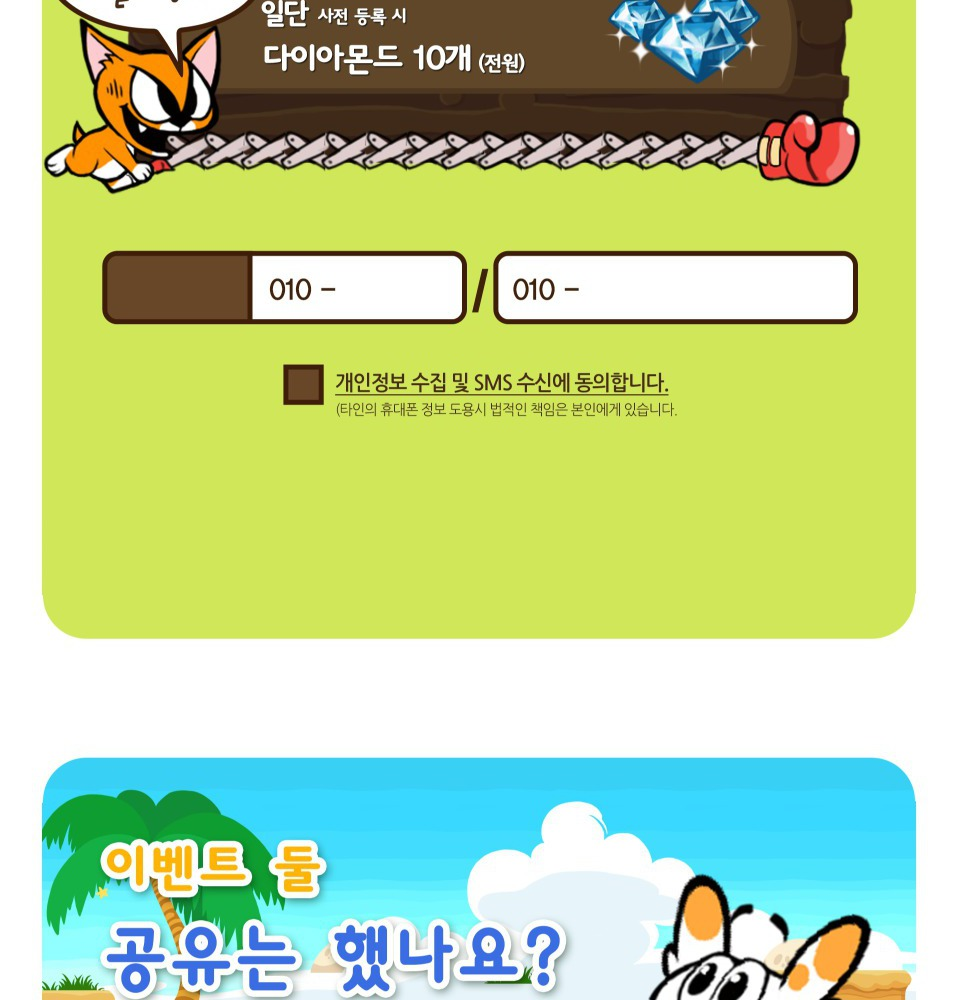
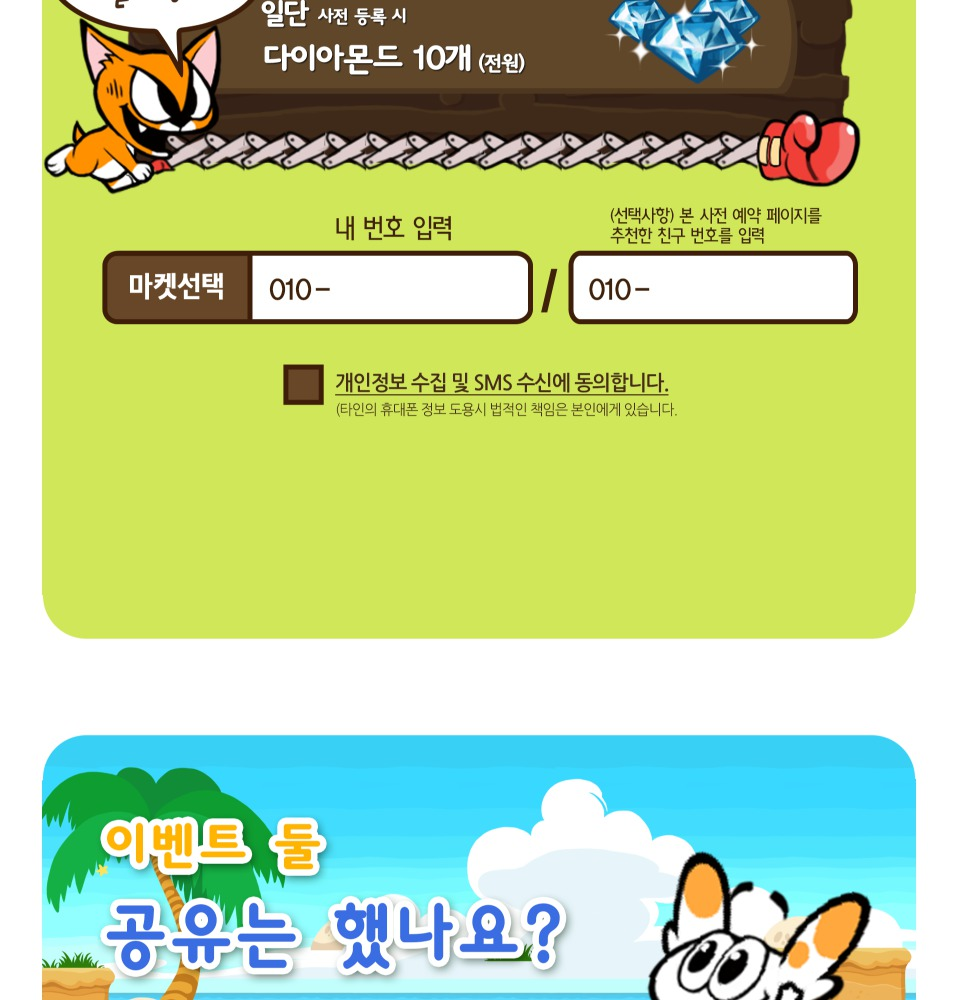
리소스 교체. css+투명 이미지 배경색 잘못 넣은거 수정

diff --git a/misasa/static/css/main.css b/misasa/static/css/main.css
@@ -120,6 +120,8 @@ textarea {
     *display: inline; /*IE 6/7*/
     zoom: 1;
 
+    background-color: transparent;
+
     line-height: normal;
     white-space: nowrap;
     vertical-align: baseline;
@@ -141,17 +143,17 @@ textarea {
 /* TODO 좌표 세부 조정은 셀프 */
 .btn-pc-fb {
     position: absolute;
-    top: 4330px;
+    top: 4305px;
     left: 305px;
 }
 .btn-pc-kakaotalk {
     position: absolute;
-    top: 4330px;
+    top: 4305px;
     left: 473px;
 }
 .btn-pc-kakaostory {
     position: absolute;
-    top: 4330px;
+    top: 4305px;
     left: 655px;
 }
 
@@ -198,7 +200,7 @@ form[name=form-pre-registration] select[name=os_type] {
 form[name=form-pre-registration] input[name=phone] {
     position: absolute;
     top: 21px;
-    width: 119px;
+    width: 180px;
     left: 338px;
 }
 form[name=form-pre-registration] input[name=parent] {
